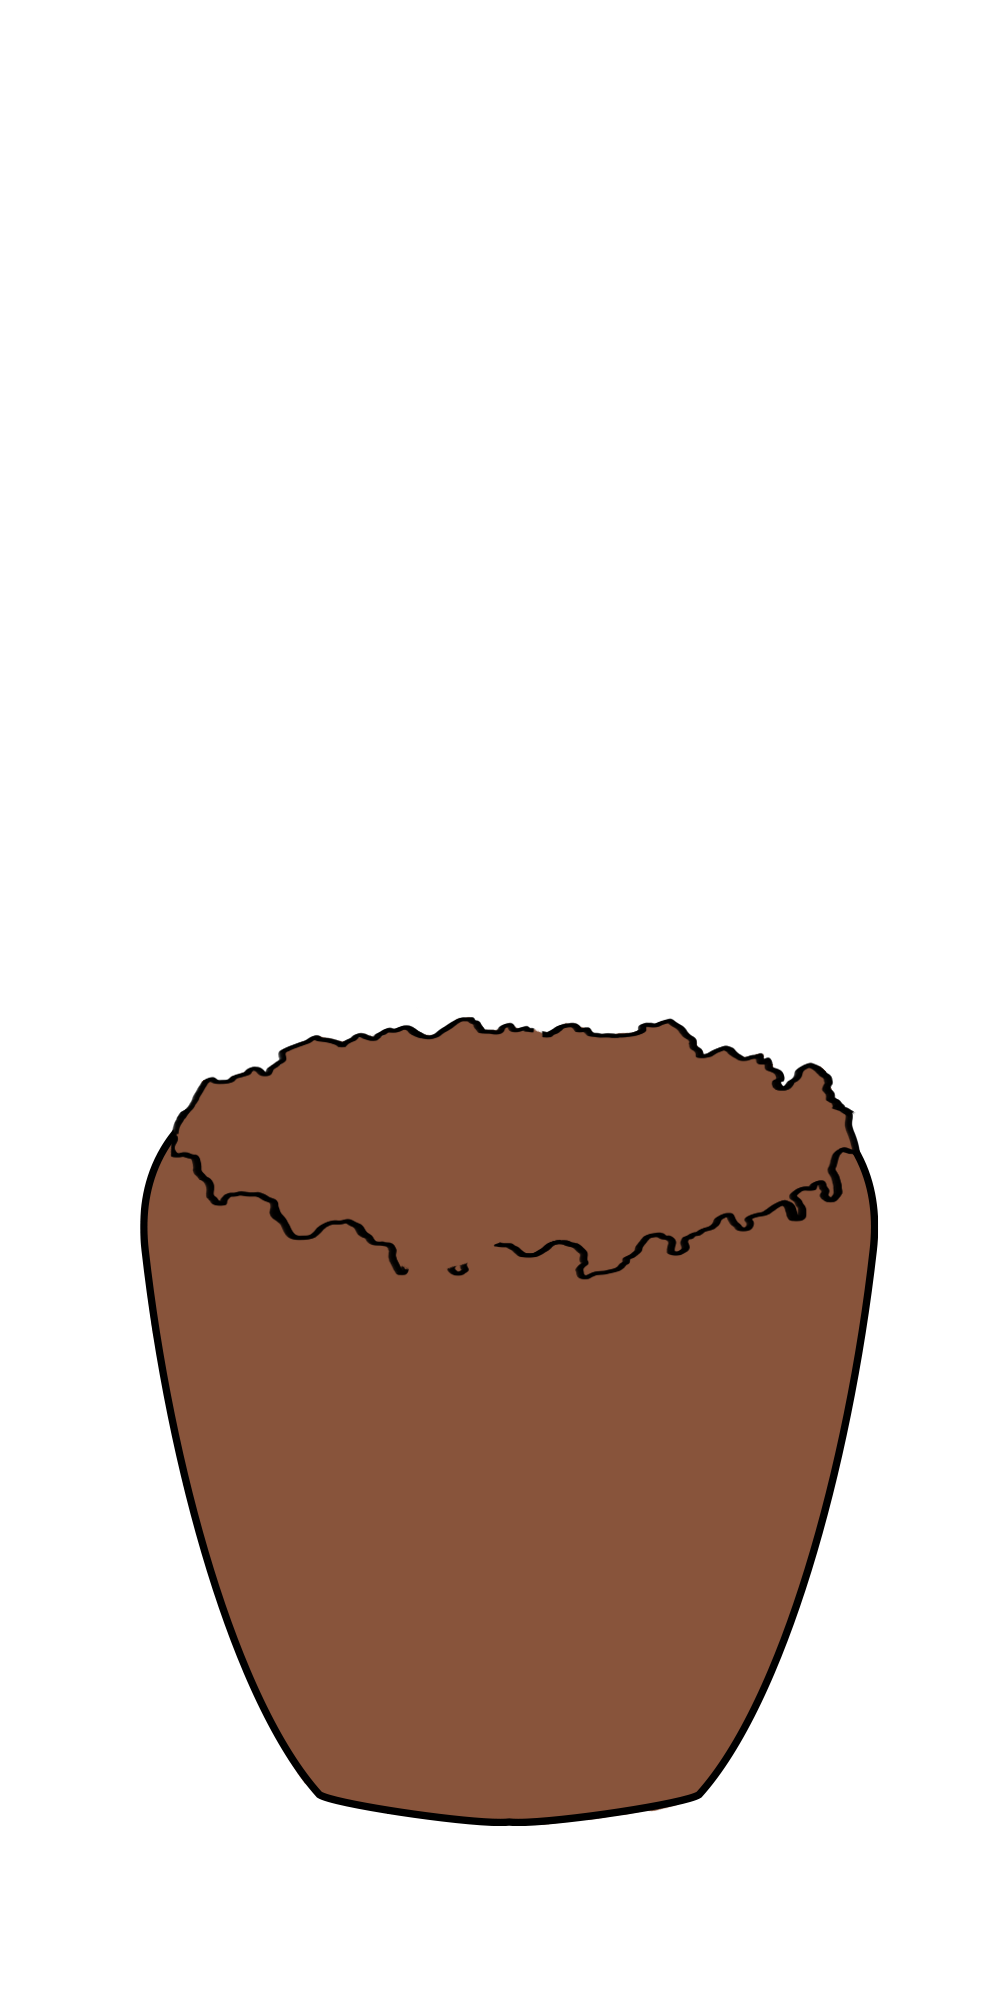
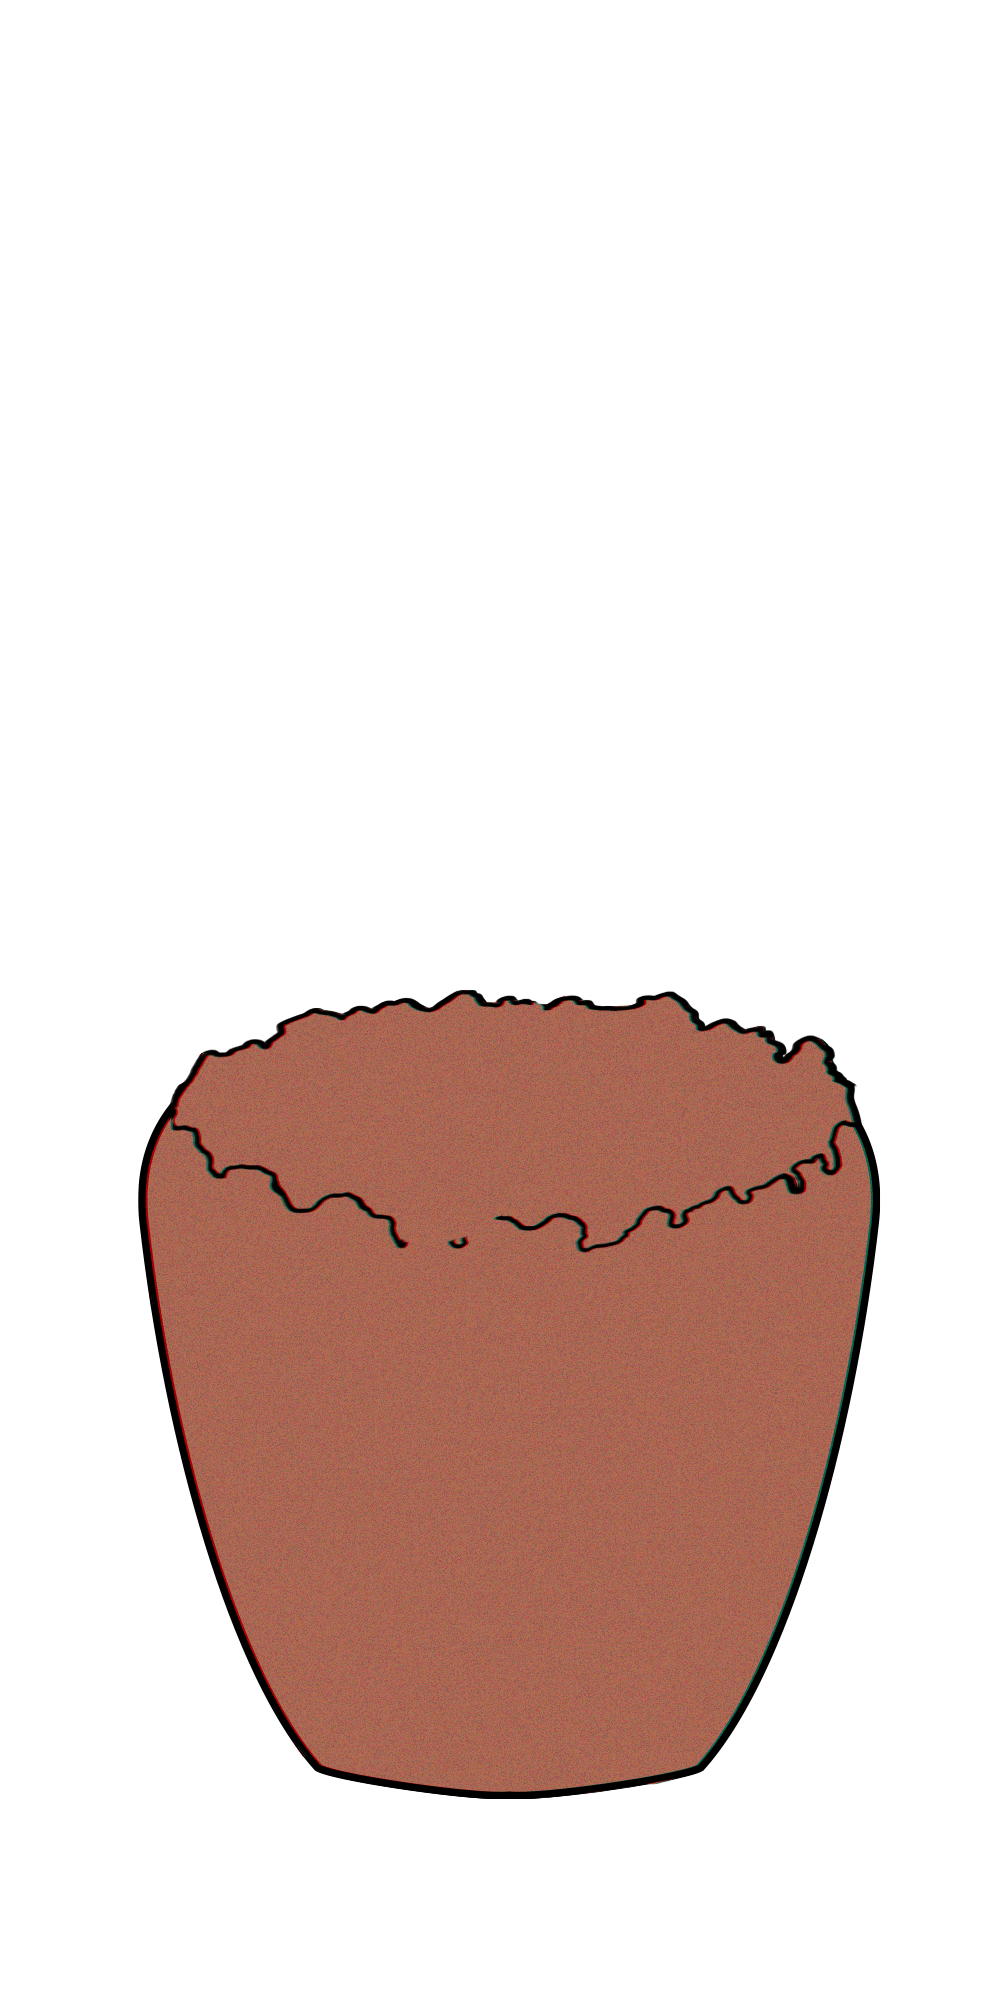
Adjustments to dialog / plant interaction
*plants don't grow unless you've completed the conversatino with the corresponding NPC
* art for plants updated to have grain, chromatic aberation, etc.
* shifted upper plants slightly lower, but they're still in front of the background for now

Changed region(s): [[0.124, 0.496, 0.899, 0.93]]

diff --git a/Buds/Assets/Scripts/Game Scripts/Plant.cs b/Buds/Assets/Scripts/Game Scripts/Plant.cs
@@ -145,8 +145,12 @@ public class Plant: MonoBehaviour, IDraggable
 
     // Causes plant to grow one day if it is in good condition
     private void Grow() {
+        string character = name == "Cyclamen" ? "$unfinished_RF" : "$unfinished_GB";
+
         if (hasEnoughSun && hasEnoughWater &&
-                growthStage != LifeStage.Blossom) {
+                growthStage != LifeStage.Blossom &&
+                !((Yarn.Value)PersistentData.instance.ReadData(character)).AsBool &&
+                !((Yarn.Value)PersistentData.instance.ReadData(character)).AsBool) {
 
             daysToNextStage--;
 

diff --git a/Buds/Assets/Scripts/Dialog Scripts/DialogUICustom.cs b/Buds/Assets/Scripts/Dialog Scripts/DialogUICustom.cs
@@ -112,7 +112,7 @@ namespace Yarn.Unity
 
             for (int i = 0; i < lineText.Length; ++i)
             {
-                if (charsOnLine > 60 && lineText[i] == ' ')
+                if (charsOnLine > 50 && lineText[i] == ' ')
                 {
                     TextNewLine();
                     charsOnLine = 0;
